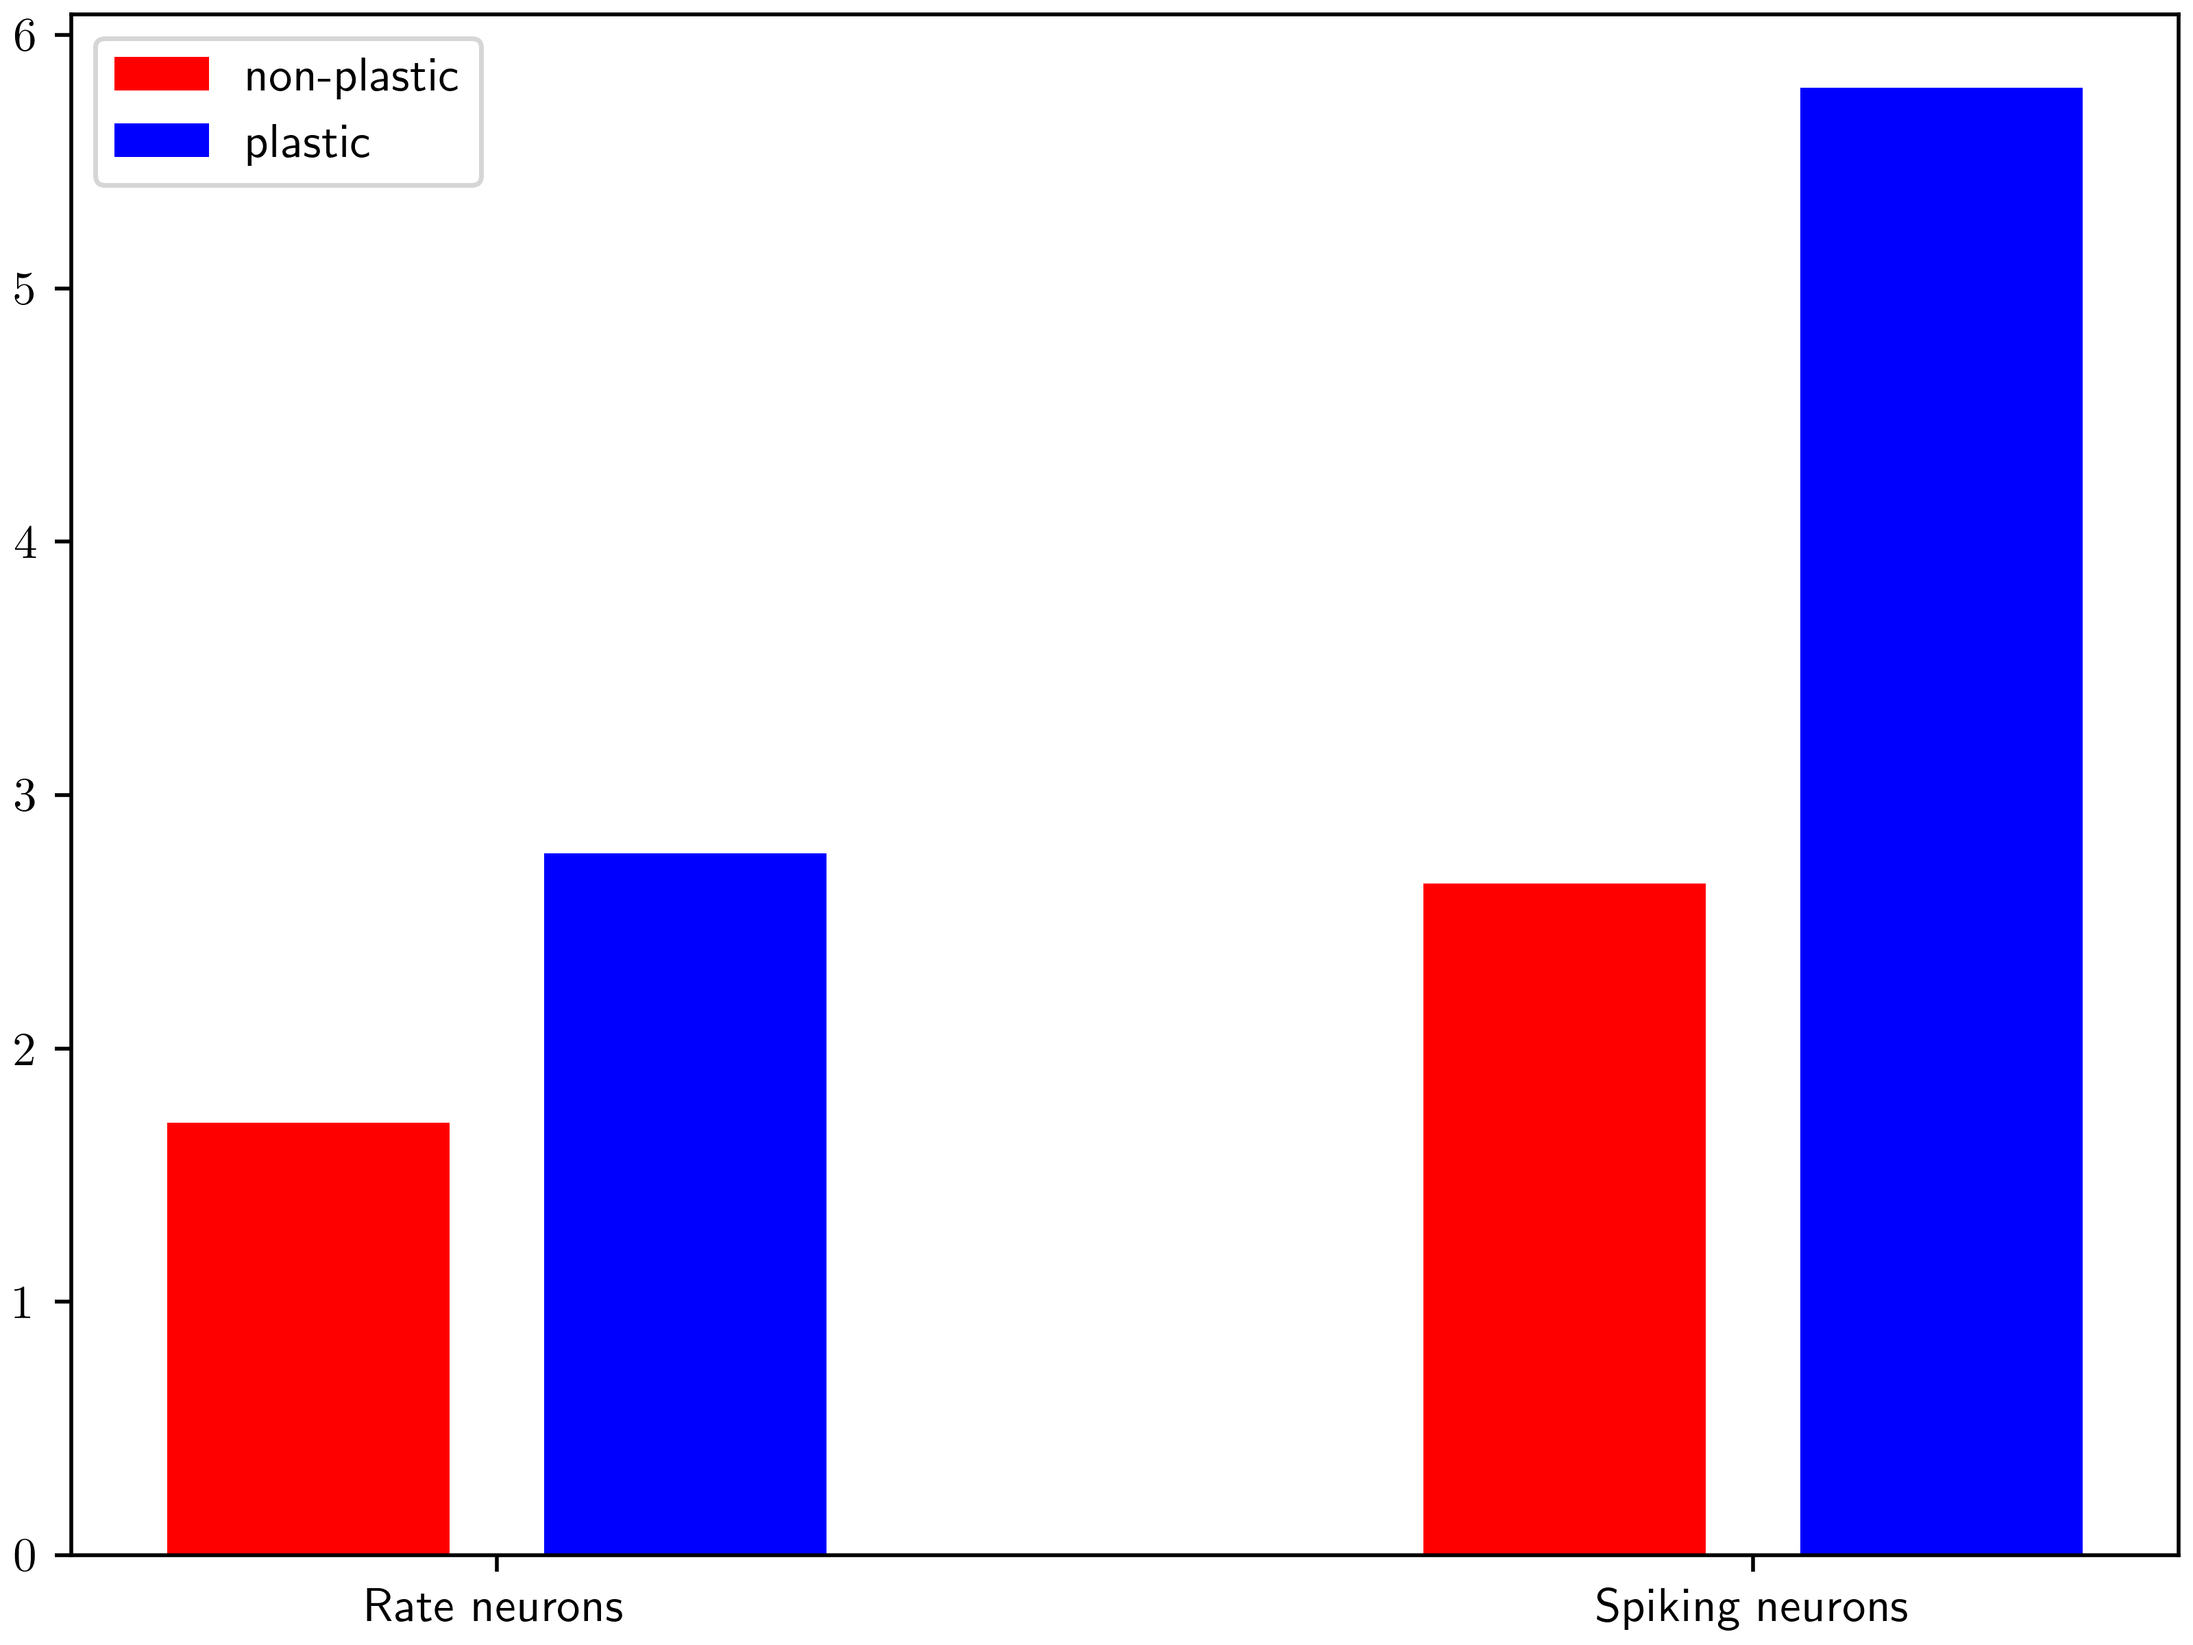
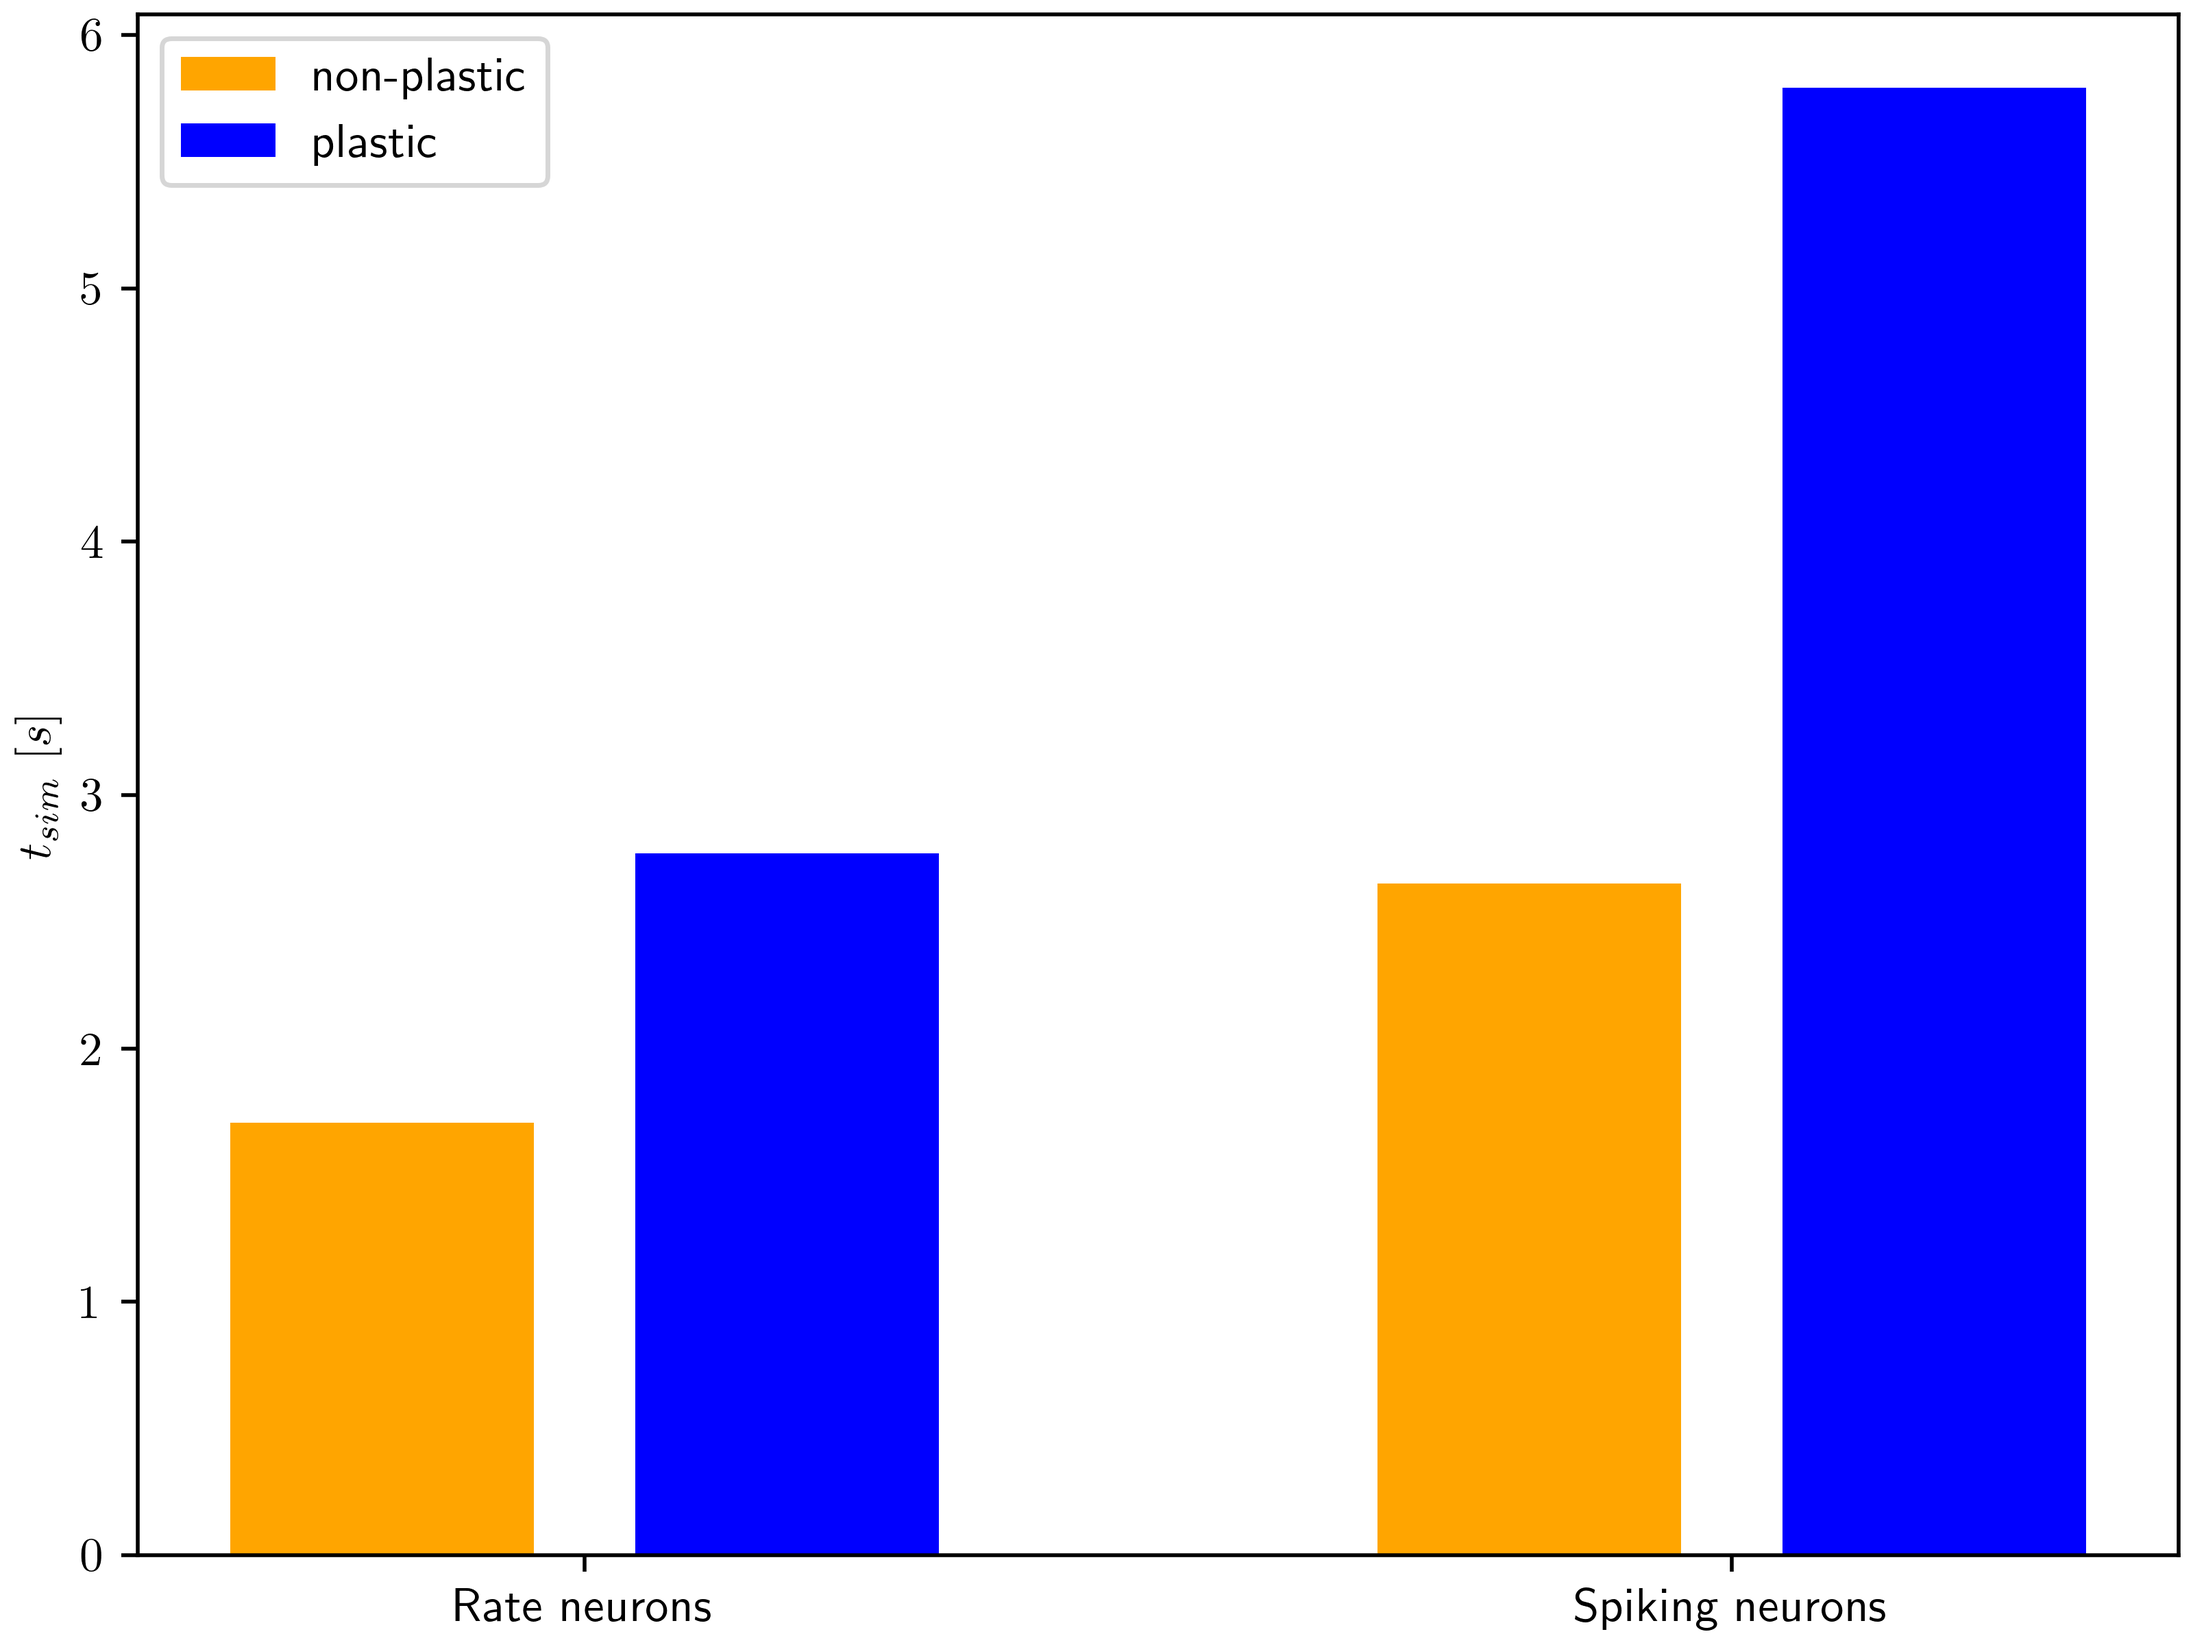
update figures

diff --git a/pyramidal_microcircuit/scripts/plotting_scripts/fig_benchmark_n_hidden.py b/pyramidal_microcircuit/scripts/plotting_scripts/fig_benchmark_n_hidden.py
@@ -1,0 +1,67 @@
+import matplotlib.pyplot as plt
+import json
+import src.plot_utils as plot_utils
+import os
+
+plot_utils.setup_plt()
+
+curdir = os.path.dirname(os.path.realpath(__file__))
+
+in_file = os.path.join(curdir, "../../results/benchmarks/benchmark_n_hidden.json")
+out_file = os.path.join(curdir, "../../data/fig_benchmark_n_hidden.png")
+
+with open(in_file) as f:
+    data = json.load(f)
+
+results = data["results"]
+
+width = 0.22
+gap = 0.02
+
+
+x1 = 0.85
+labels = {
+    "rnest_30": {"label": r"$n_{hidden} = 30$",
+                 "X": 0-width-gap,
+                 "color": "blue"},
+    "rnest_100": {"label": r"$n_{hidden} = 100$",
+                  "X": 0,
+                  "color": "orange"},
+    "rnest_250": {"label": r"$n_{hidden} = 250$",
+                  "X": 0+width+gap,
+                  "color": "green"},
+    "snest_30": {"label": r"$n_{hidden} = 30$",
+                 "X": 1-width-gap,
+                 "color": "blue"},
+    "snest_100": {"label": r"$n_{hidden} = 100$",
+                  "X": 1,
+                  "color": "orange"},
+    "snest_250": {"label": r"$n_{hidden} = 250$",
+                  "X": 1+width+gap,
+                  "color": "green"},
+    "numpy_30": {"label": r"$n_{hidden} = 30$",
+                 "X": 2-width-gap,
+                 "color": "blue"},
+    "numpy_100": {"label": r"$n_{hidden} = 100$",
+                  "X": 2,
+                  "color": "orange"},
+    "numpy_250": {"label": r"$n_{hidden} = 250$",
+                  "X": 2+width+gap,
+                  "color": "green"},
+}
+
+fig, ax = plt.subplots()
+all_bars = []
+for name, cfg in labels.items():
+    bar = ax.bar(cfg["X"], results[name]["t_mean"], color=cfg["color"], label=cfg["label"], width=width)
+    all_bars.append(bar)
+
+ax.set_ylabel(r"$t_{sim}\ [s]$")
+ax.set_xticks([0, 1, 2])
+ax.set_xticklabels(["NEST rate", "NEST spiking", "NumPy"])
+
+ax.legend(handles=all_bars[:3])
+
+# plt.show()
+
+plt.savefig(out_file)

diff --git a/pyramidal_microcircuit/scripts/plotting_scripts/fig_benchmark_psi.py b/pyramidal_microcircuit/scripts/plotting_scripts/fig_benchmark_psi.py
@@ -1,0 +1,49 @@
+import matplotlib.pyplot as plt
+import json
+import src.plot_utils as plot_utils
+import os
+import numpy as np
+
+plot_utils.setup_plt()
+
+curdir = os.path.dirname(os.path.realpath(__file__))
+
+in_file = os.path.join(curdir, "../../results/benchmarks/benchmark_bars_psi.json")
+out_file = os.path.join(curdir, "../../data/fig_benchmark_psi.png")
+
+with open(in_file) as f:
+    data = json.load(f)
+
+results = data["results"]
+
+width = 0.4
+
+labels = {
+    "psi_1": {"label": r"$\psi = 1$",
+              "X": 0,
+              "color": "green"},
+    "psi_10": {"label":  r"$\psi = 10$",
+               "X": 1,
+               "color": "green"},
+    "psi_100": {"label":  r"$\psi = 100$",
+                "X": 2,
+                "color": "green"},
+    "psi_1000": {"label":  r"$\psi = 1000$",
+                 "X": 3,
+                 "color": "green"}
+}
+
+fig, ax = plt.subplots()
+all_bars = []
+for name, cfg in labels.items():
+    bar = ax.bar(cfg["X"], results[name]["t_mean"], color=cfg["color"], label=cfg["label"], width=width)
+    all_bars.append(bar)
+
+ax.set_ylabel(r"$t_{sim}\ [s]$")
+ax.set_xlabel(r"$\psi$")
+ax.set_xticks(np.arange(4))
+ax.set_xticklabels([1, 10, 100, 1000])
+
+# plt.show()
+
+plt.savefig(out_file)

diff --git a/pyramidal_microcircuit/scripts/plotting_scripts/fig_benchmark_plasticity.py b/pyramidal_microcircuit/scripts/plotting_scripts/fig_benchmark_plasticity.py
@@ -17,6 +17,8 @@ results = data["results"]
 
 width = 0.15
 
+
+x1 = 0.85
 labels = {
     "rnest_plast": {"label": "plastic",
                     "X": 0 + width,
@@ -24,15 +26,15 @@ labels = {
                     "linestyle": "-"},
     "rnest_static": {"label": "non-plastic",
                      "X": 0 - width,
-                     "color": "red",
+                     "color": "orange",
                      "linestyle": "--"},
     "snest_plast": {"label": "plastic",
-                    "X": 1 + width,
+                    "X": x1 + width,
                     "color": "blue",
                     "linestyle": "-"},
     "snest_static": {"label": "non-plastic",
-                     "X": 1 - width,
-                     "color": "red",
+                     "X": x1 - width,
+                     "color": "orange",
                      "linestyle": "--"},
 }
 
@@ -42,7 +44,8 @@ for name, cfg in labels.items():
     bar = ax.bar(cfg["X"], results[name]["t_mean"], color=cfg["color"], label=cfg["label"], width=width*1.5)
     all_bars.append(bar)
 
-ax.set_xticks([0, 1])
+ax.set_ylabel(r"$t_{sim}\ [s]$")
+ax.set_xticks([0, x1])
 ax.set_xticklabels(["Rate neurons", "Spiking neurons"])
 
 ax.legend(handles=all_bars[1:3])

diff --git a/pyramidal_microcircuit/scripts/plotting_scripts/fig_benchmark_threads.py b/pyramidal_microcircuit/scripts/plotting_scripts/fig_benchmark_threads.py
@@ -15,30 +15,33 @@ with open(in_file) as f:
 
 results = data["results"]
 
-width = 0.3
+width = 0.4
+
+color = "orange"
 
 labels = {
     "8": {"label": "8",
           "X": 0,
-          "color": "blue"},
+          "color": color},
     "16": {"label": "16",
            "X": 1,
-           "color": "blue"},
+           "color": color},
     "24": {"label": "24",
            "X": 2,
-           "color": "blue"},
+           "color": color},
     "32": {"label": "32",
            "X": 3,
-           "color": "blue"},
+           "color": color},
 }
 
 fig, ax = plt.subplots()
 all_bars = []
 for name, cfg in labels.items():
-    bar = ax.bar(cfg["X"], results[name]["t_mean"], color=cfg["color"], label=cfg["label"], width=width*1.5)
+    bar = ax.bar(cfg["X"], results[name]["t_mean"], color=cfg["color"], label=cfg["label"], width=width)
     all_bars.append(bar)
 
-ax.set_ylabel(r"$t_{sim} [ms]$")
+ax.set_ylabel(r"$t_{sim}\ [s]$")
+ax.set_xlabel(r"Threads")
 ax.set_xticks([0, 1, 2, 3])
 ax.set_xticklabels([8, 16, 24, 32])
 
